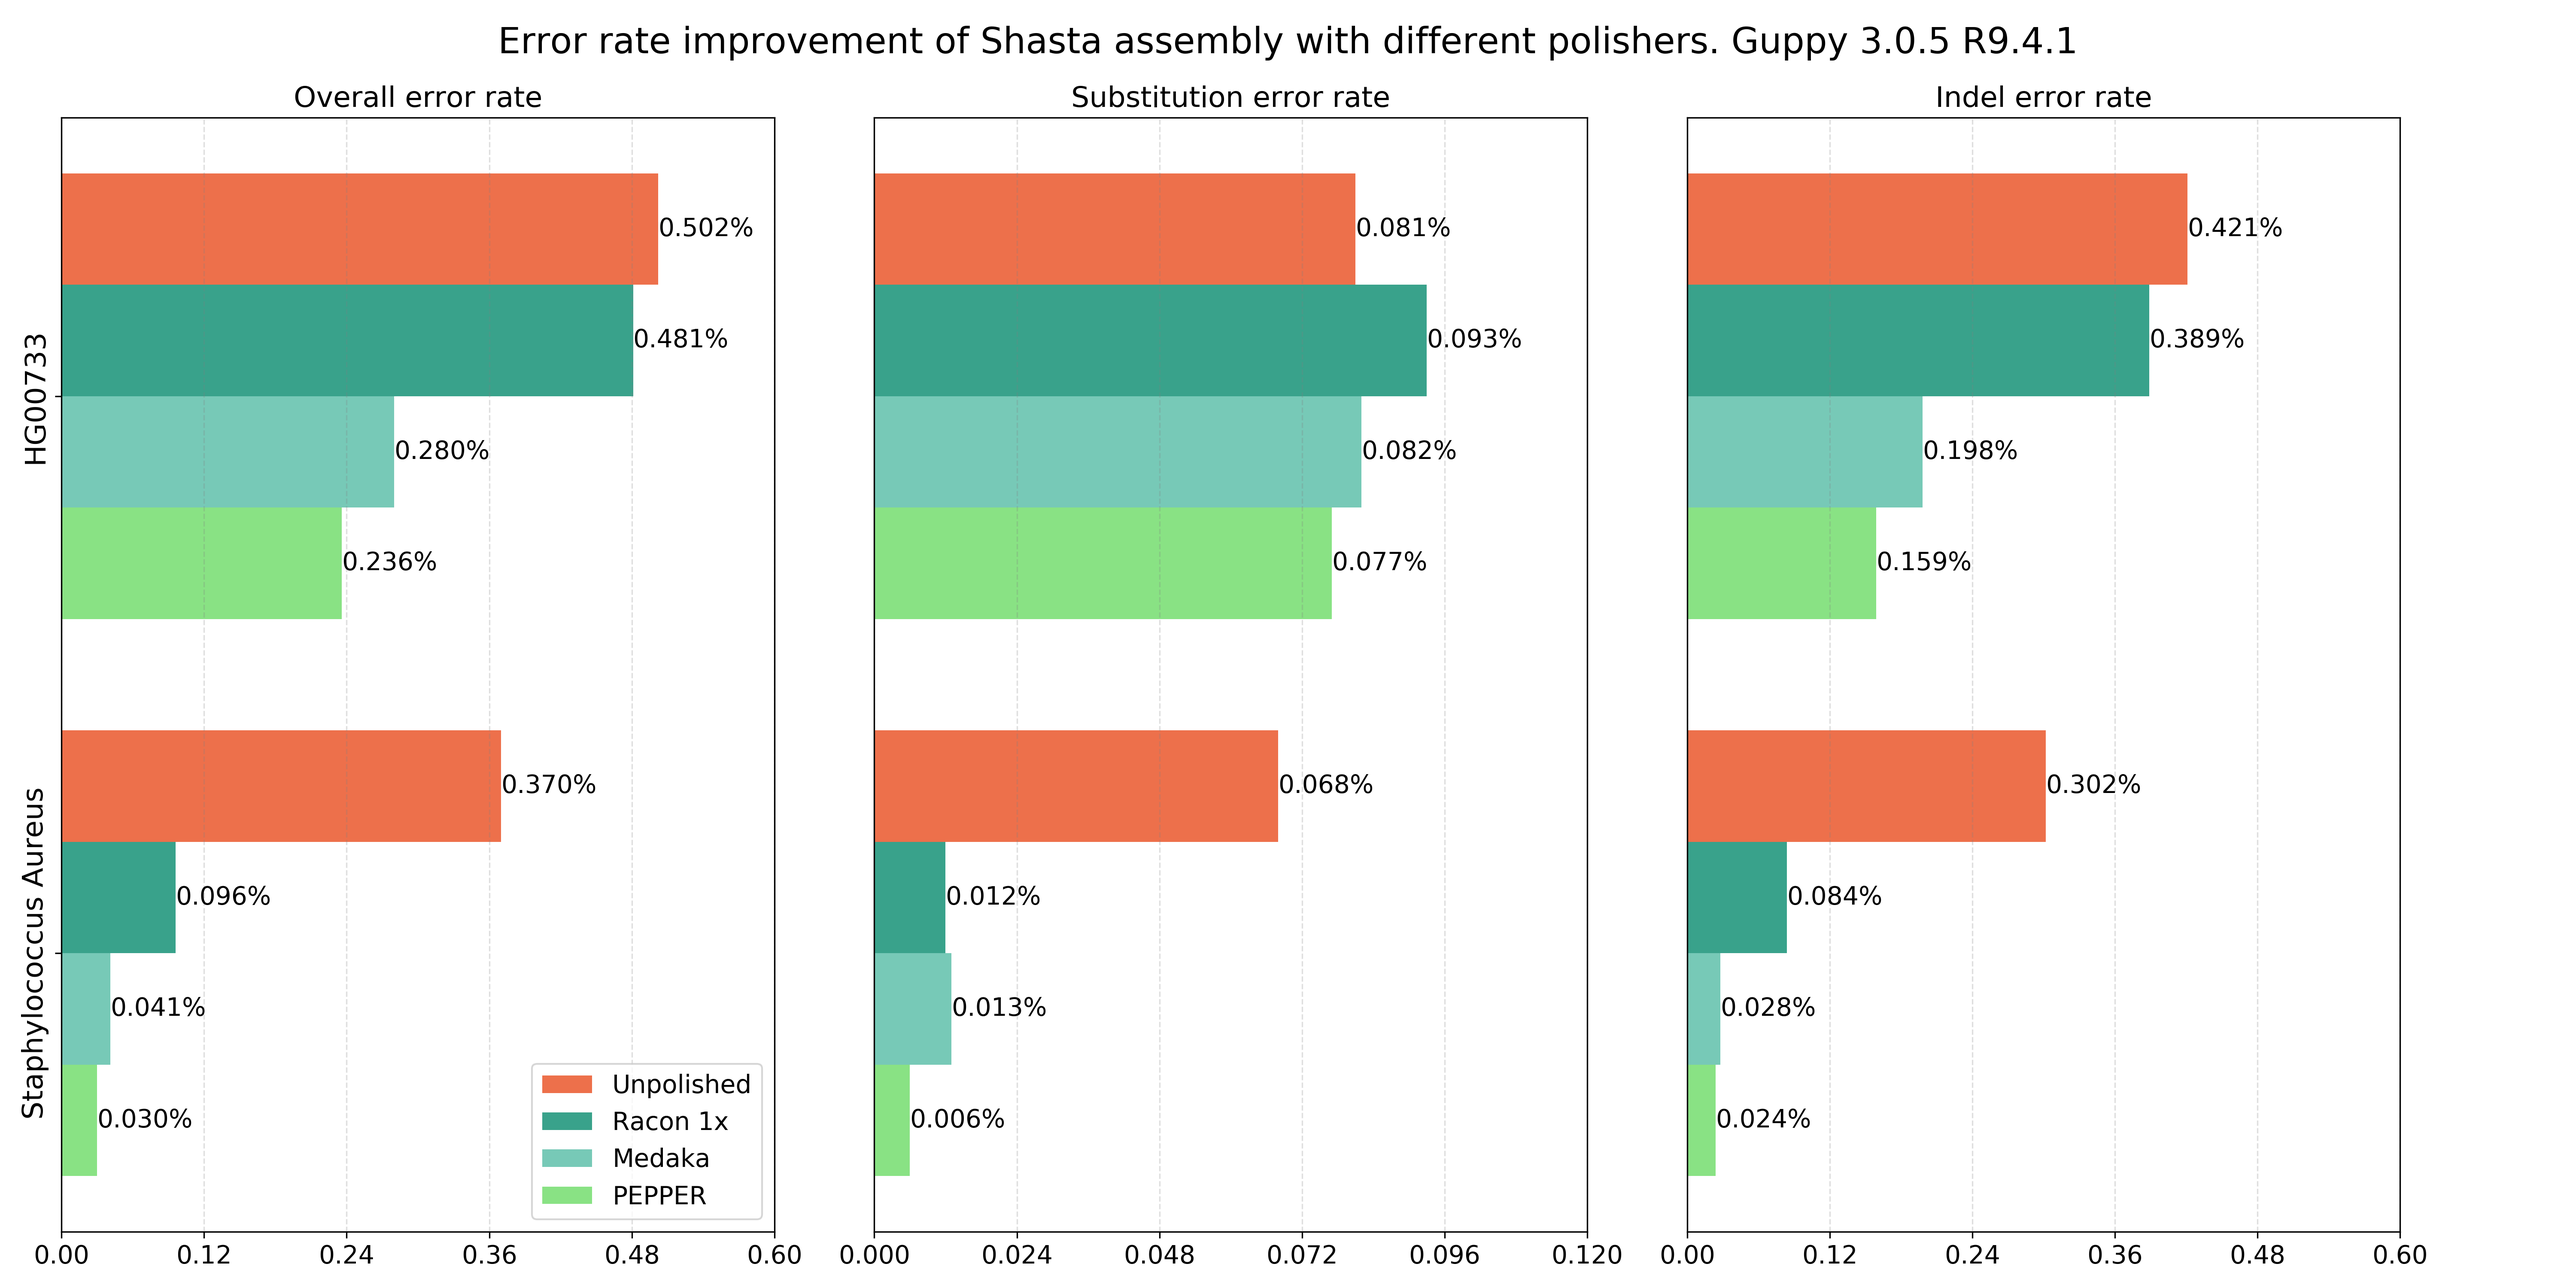
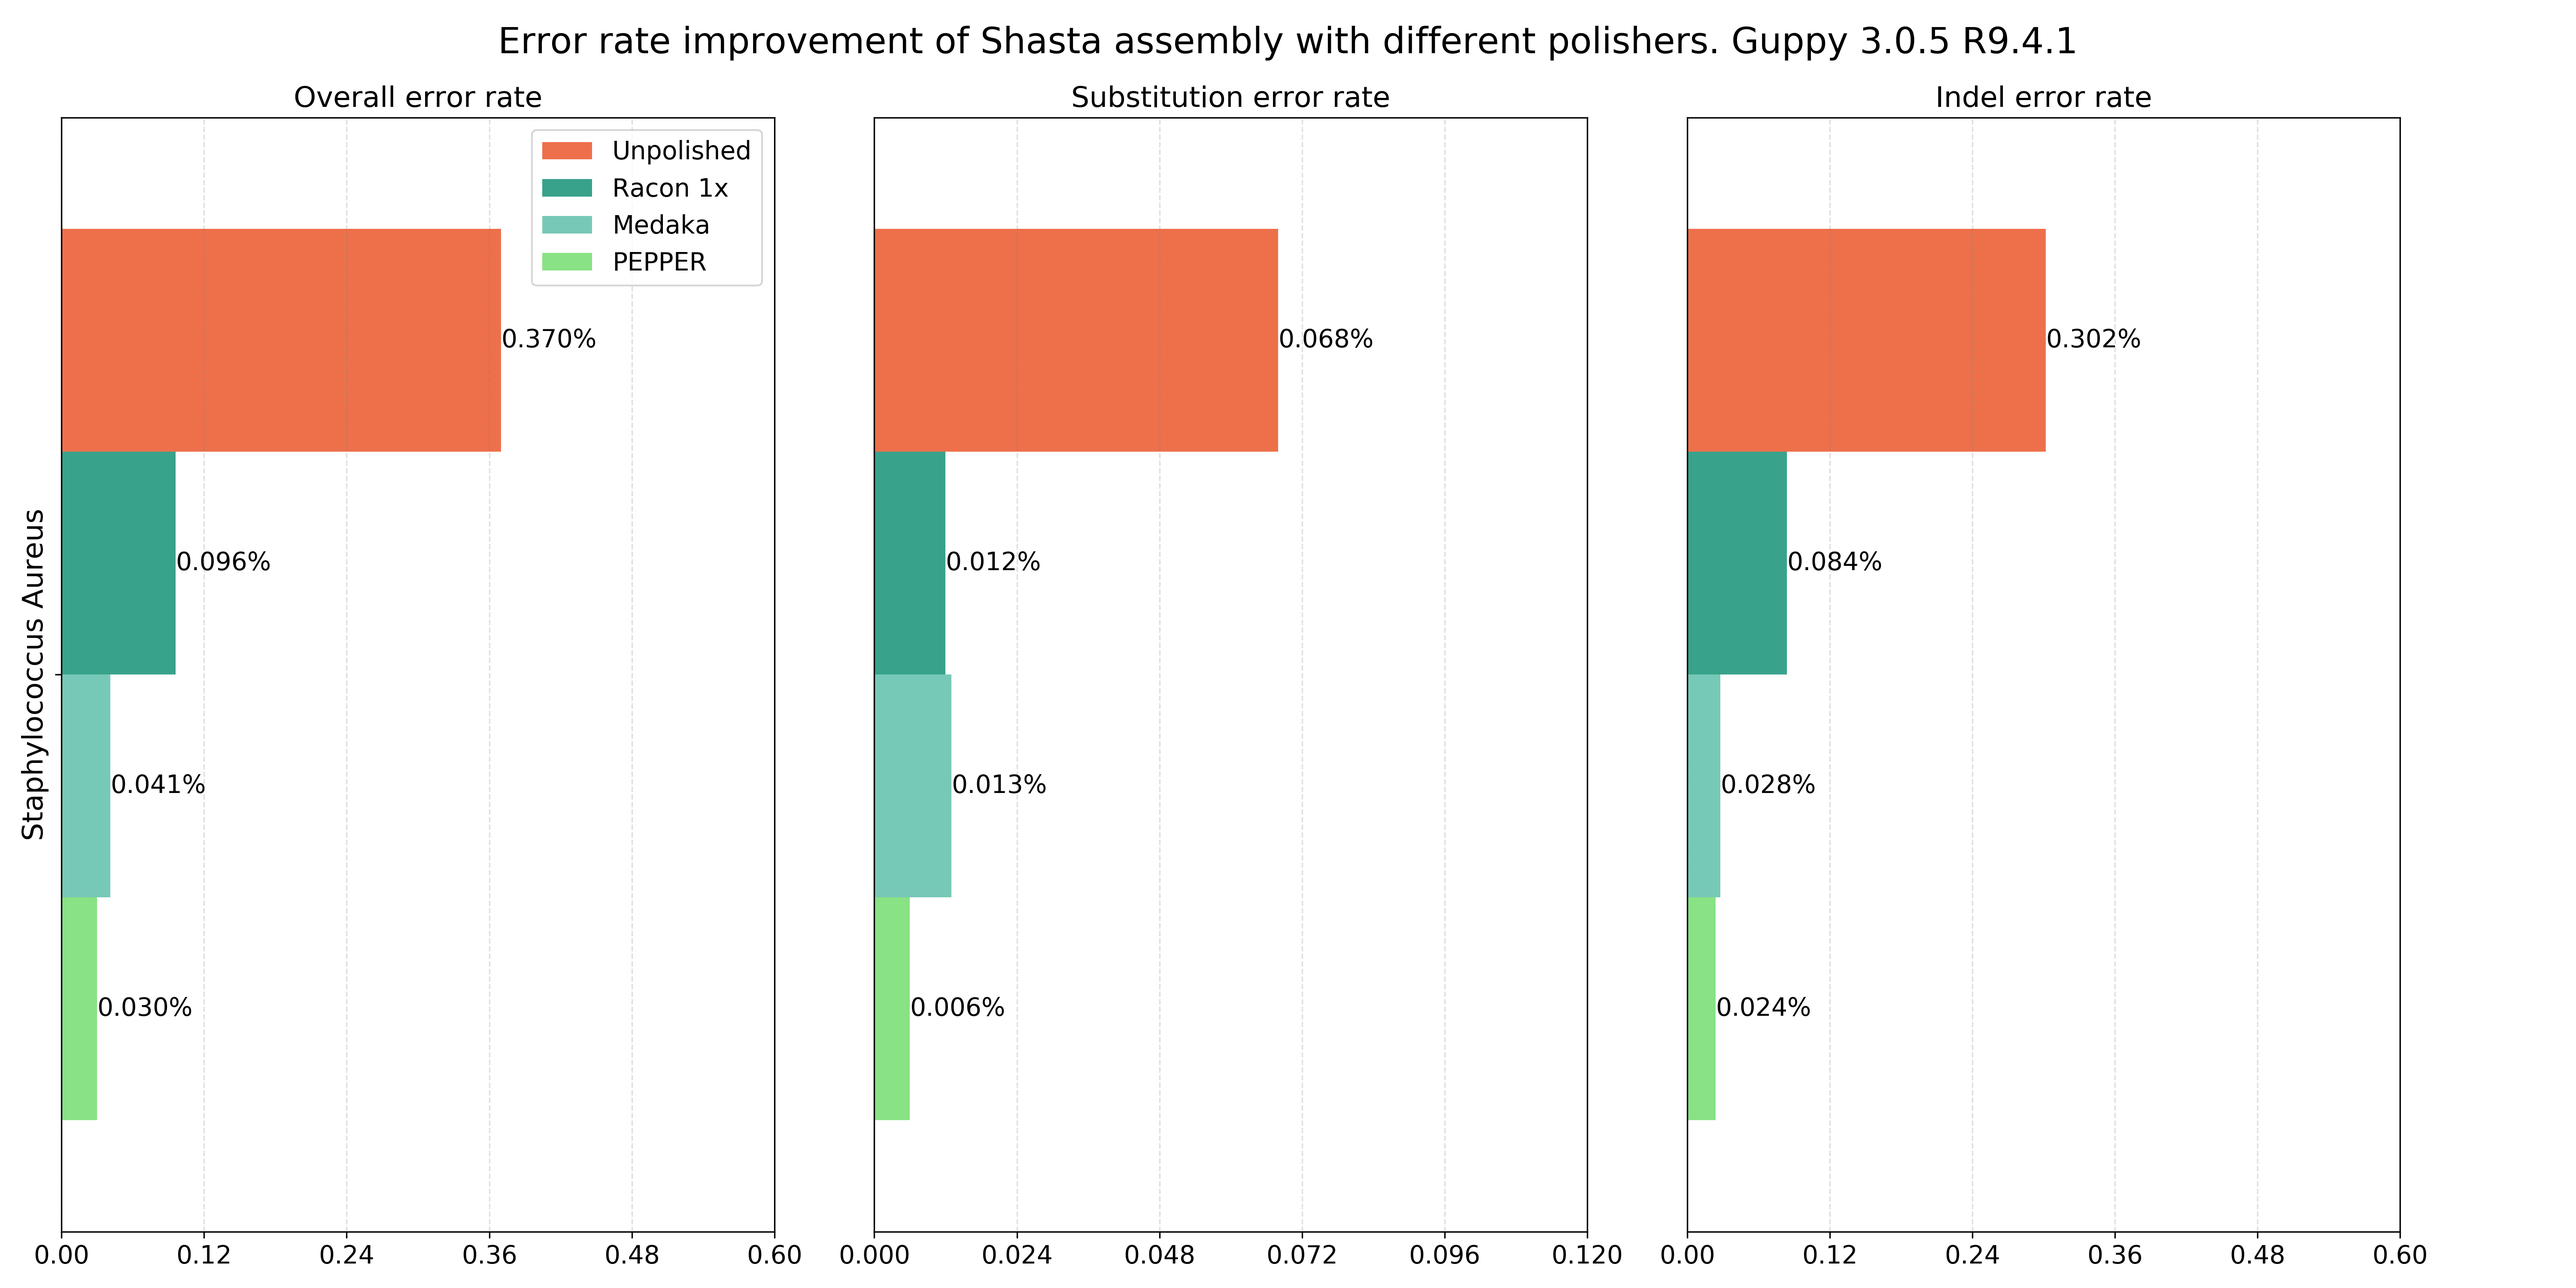
results updated :fire:

diff --git a/README.md b/README.md
@@ -129,8 +129,8 @@ ARGUMENT DETAILS:
 
 ## Results
 
-#### PEPPER achieves lower error rate for both complex diploid human and small microbial genome.
-We compared `PEPPER` against suggested pipeline `Racon-Medaka` and we demonstrate significantly better results for both complex human genome and microbial genomes. We used HG00733 human genome and Staphylococcus Aureus samples to evaluate these two pipelines. The PEPPER human model is trained on HG002 and the microbial model was trained on samples excluding Staphylococcus Aureus. We used `r941_prom_high` model to run `Medaka`.
+#### PEPPER achieves lower error rate than ONT suggested pipeline.
+We compared `PEPPER` against `Racon-Medaka` pipeline and we demonstrate significantly better results for microbial genomes. We used Staphylococcus Aureus samples to evaluate these two pipelines. The PEPPER microbial model was trained on samples excluding Staphylococcus Aureus. We used `r941_prom_high` model to run `Medaka`.
 <p align="center">
 <img src="img/PEPPER_error_rate.png" alt="PEPPER_error_rate.png" height="420">
 </p>
